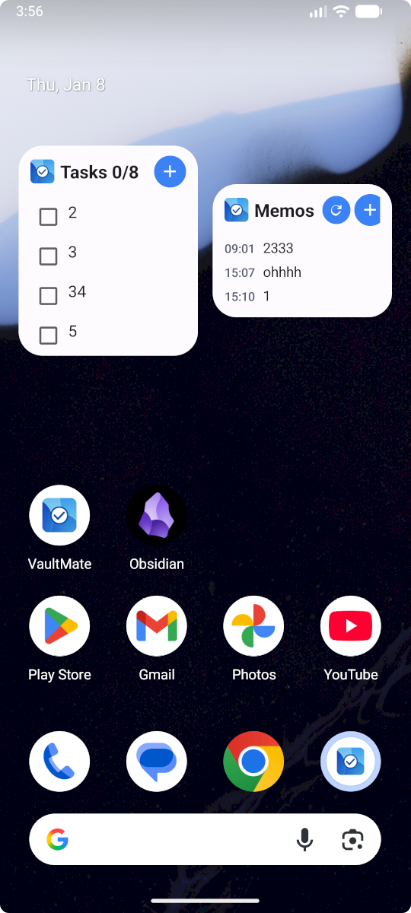
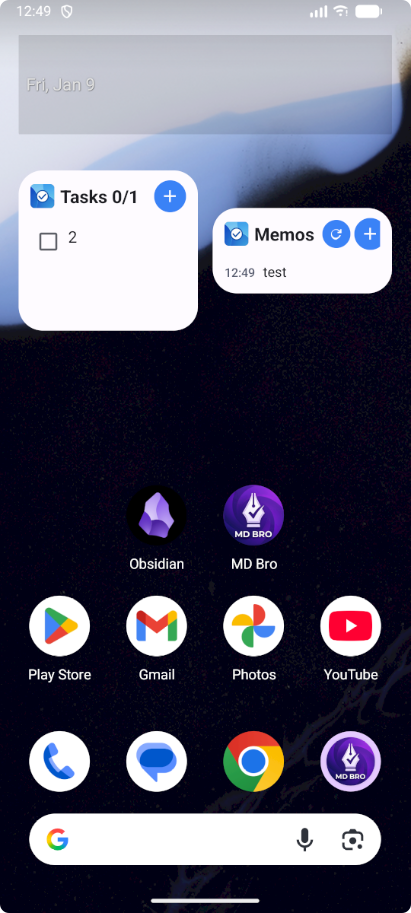
docs: 更换了图片

diff --git a/README.md b/README.md
@@ -17,7 +17,7 @@
 
 ## 🚀 Key Differences & New Features
 
-MD Assistant builds upon the solid foundation of VaultMate with specific enhancements for power users:
+MD Bro builds upon the solid foundation of VaultMate with specific enhancements for power users:
 
 ### ✨ New Functionalities
 *   **📝 Memos Widget**: A dedicated widget to view and quickly capture thoughts.
